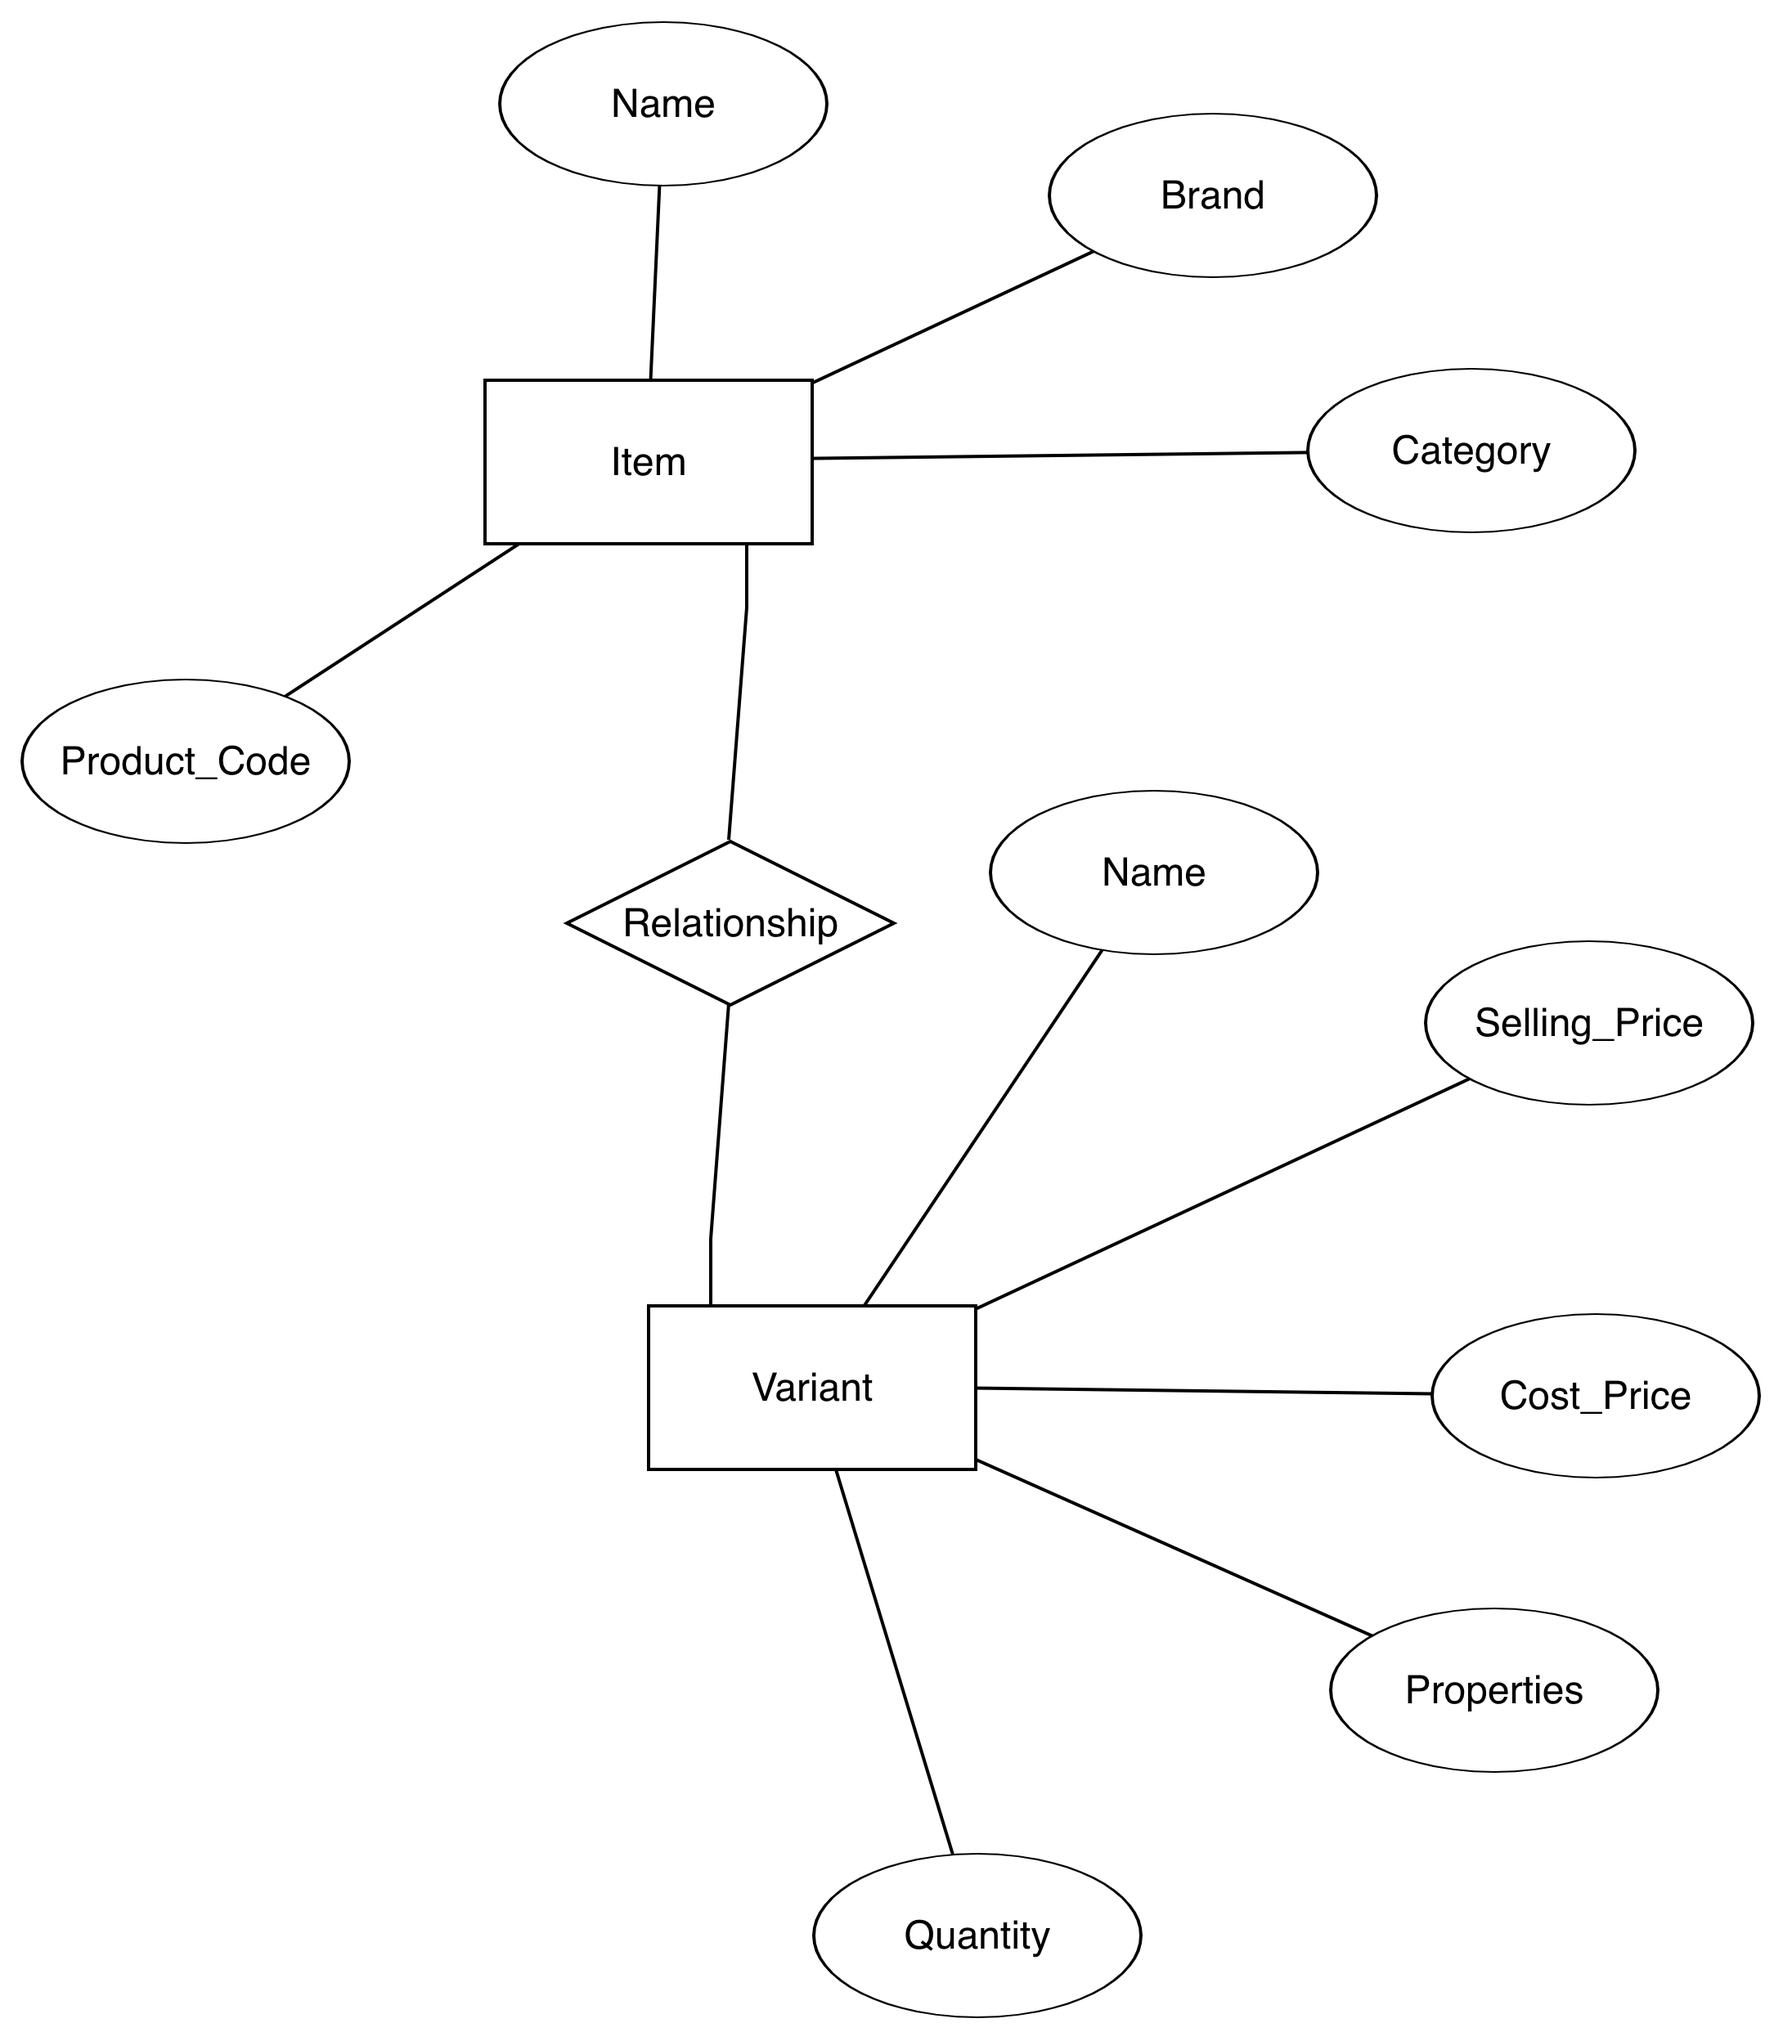
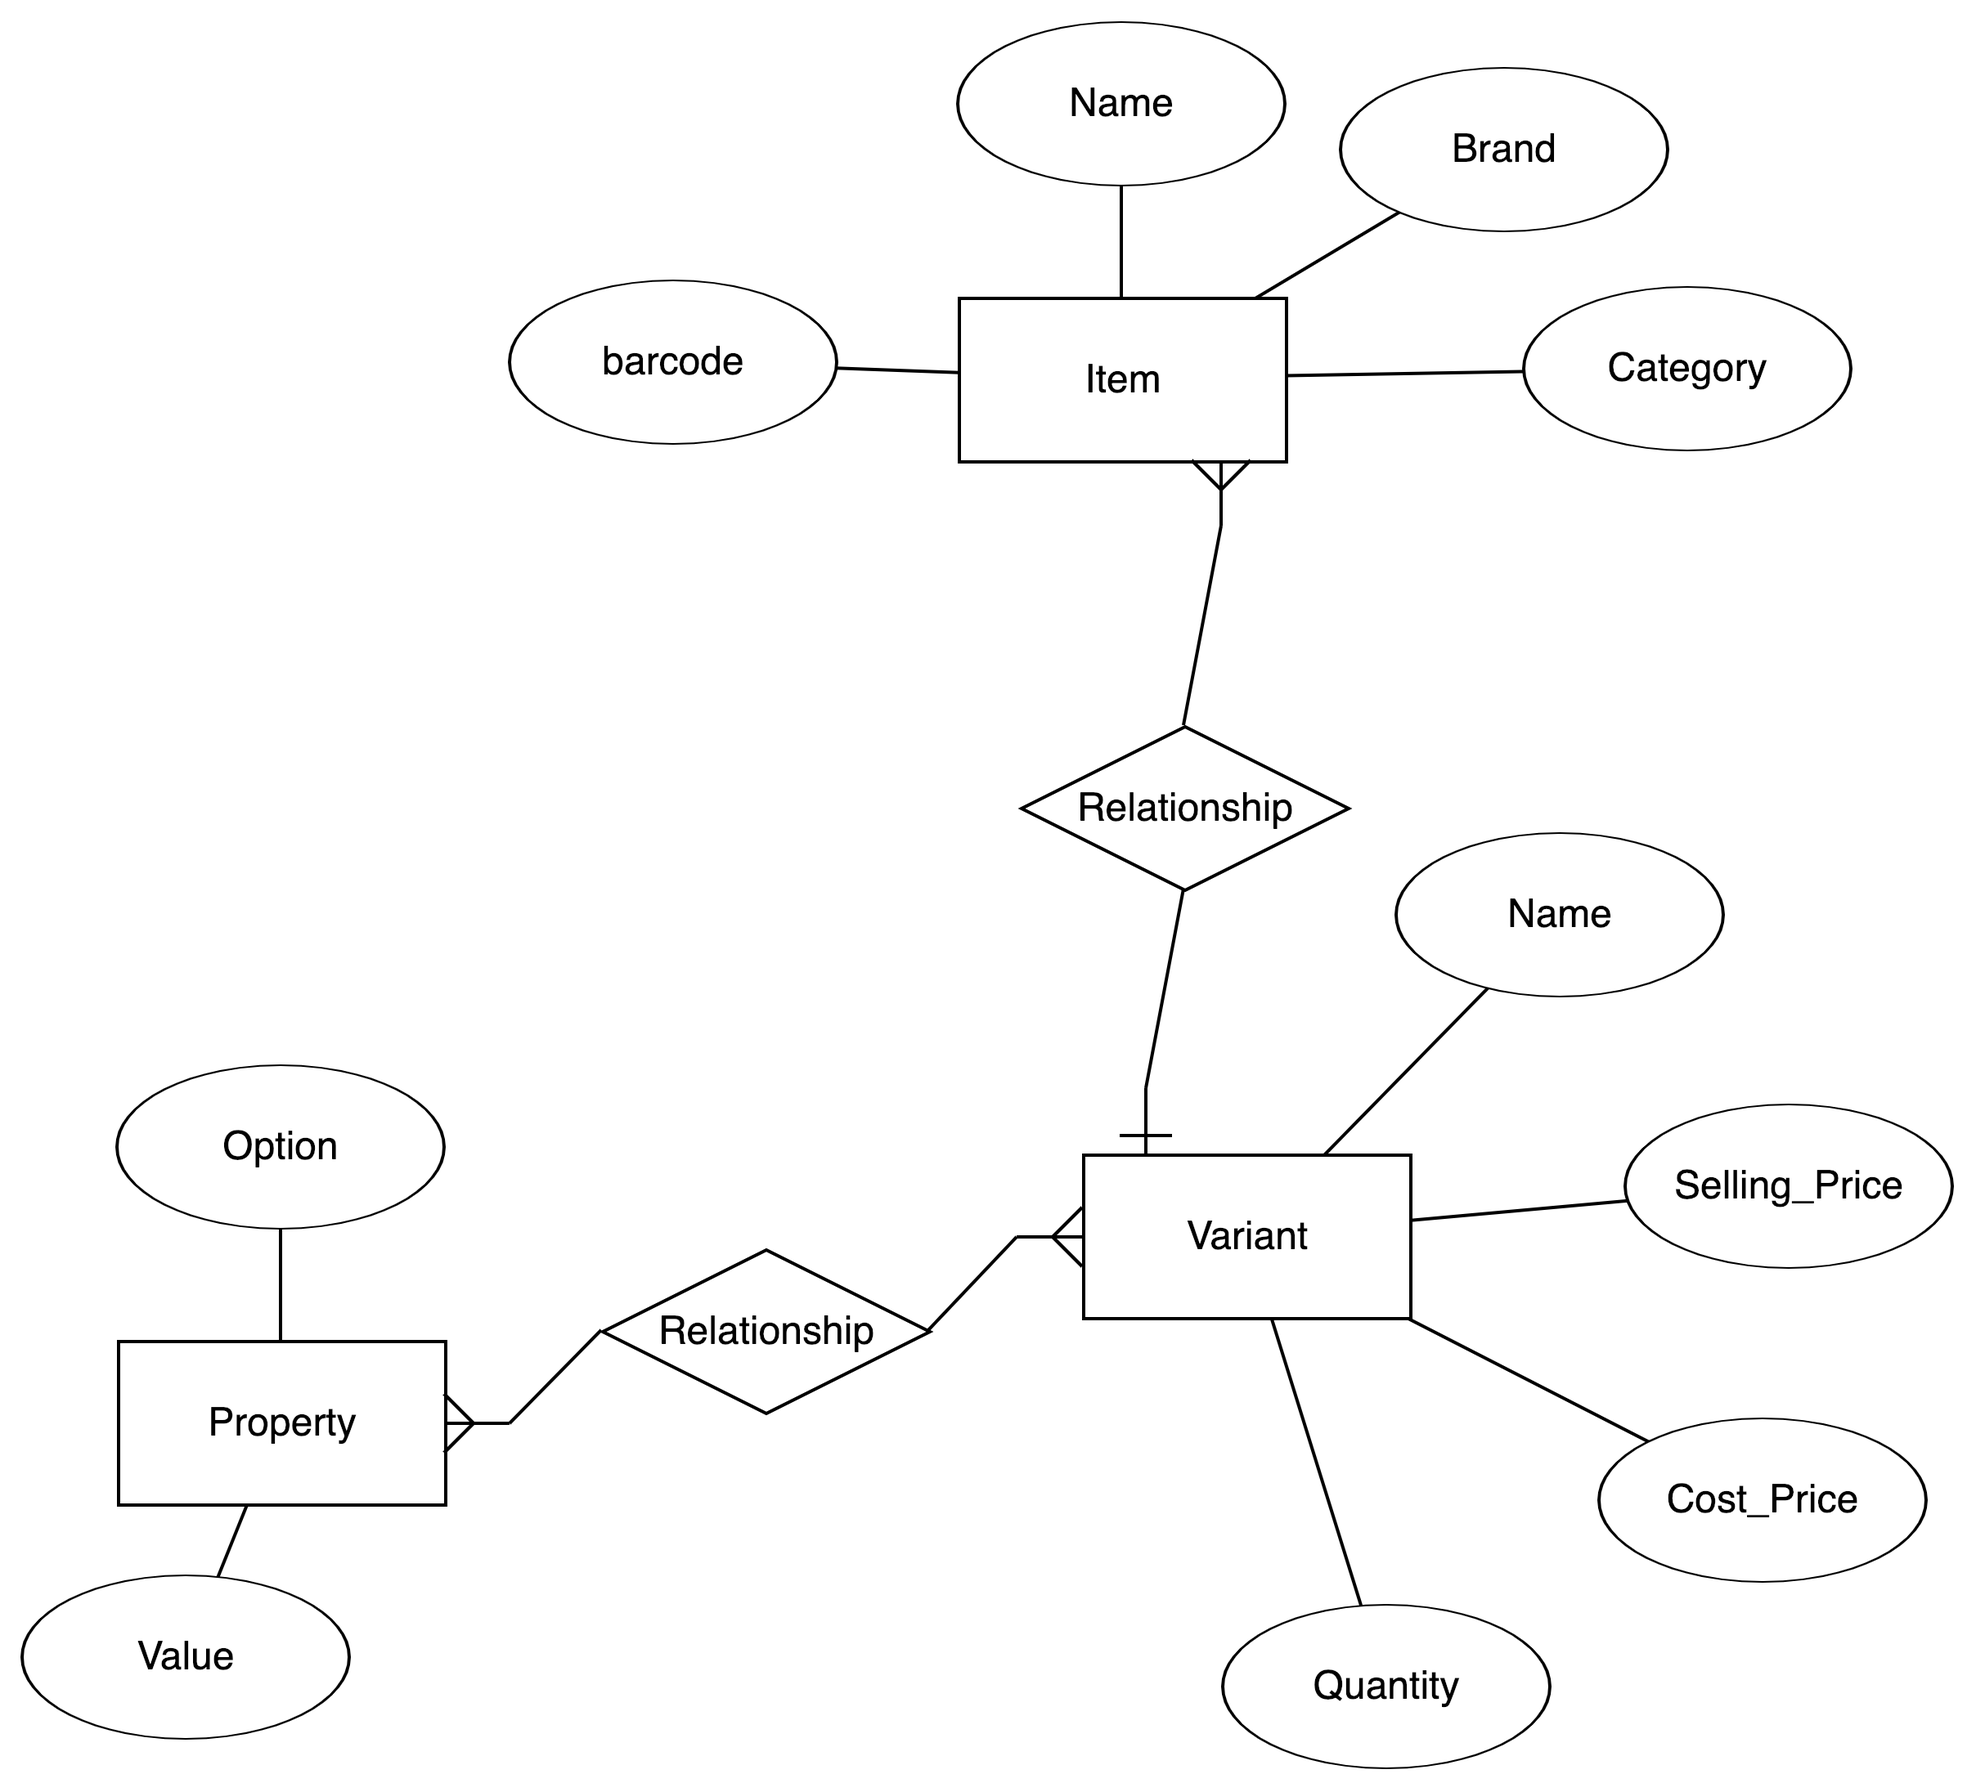
updated er diagram

diff --git a/README.md b/README.md
@@ -1,6 +1,10 @@
 # ITEMFEED #
 
 Feed Generation of the Item and Variant attributes changes.
+ITEMFEED Micro service is to update the user changes in corresponding table and generate each update as an event. Push Each event to kafka for generating feed. Refer
+```
+	images/ItemAndVariantArchitecture.png
+```
 Version - 0.0.1
 
 ## Setup ##
